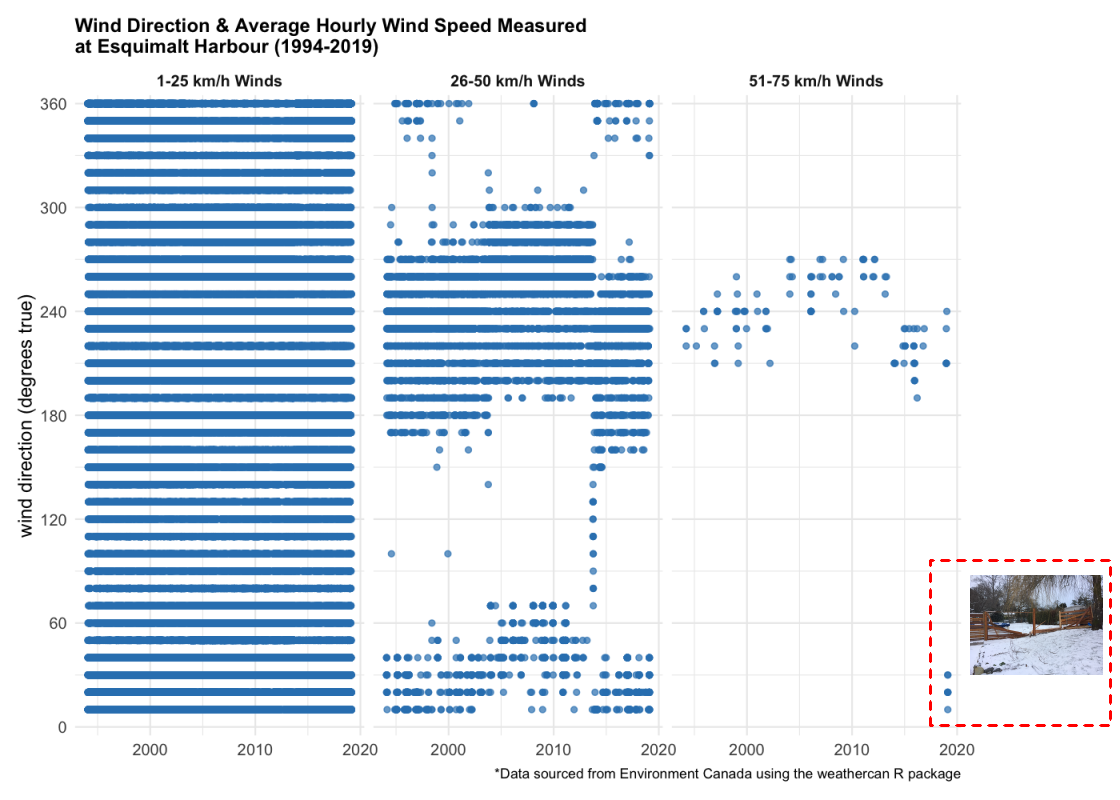
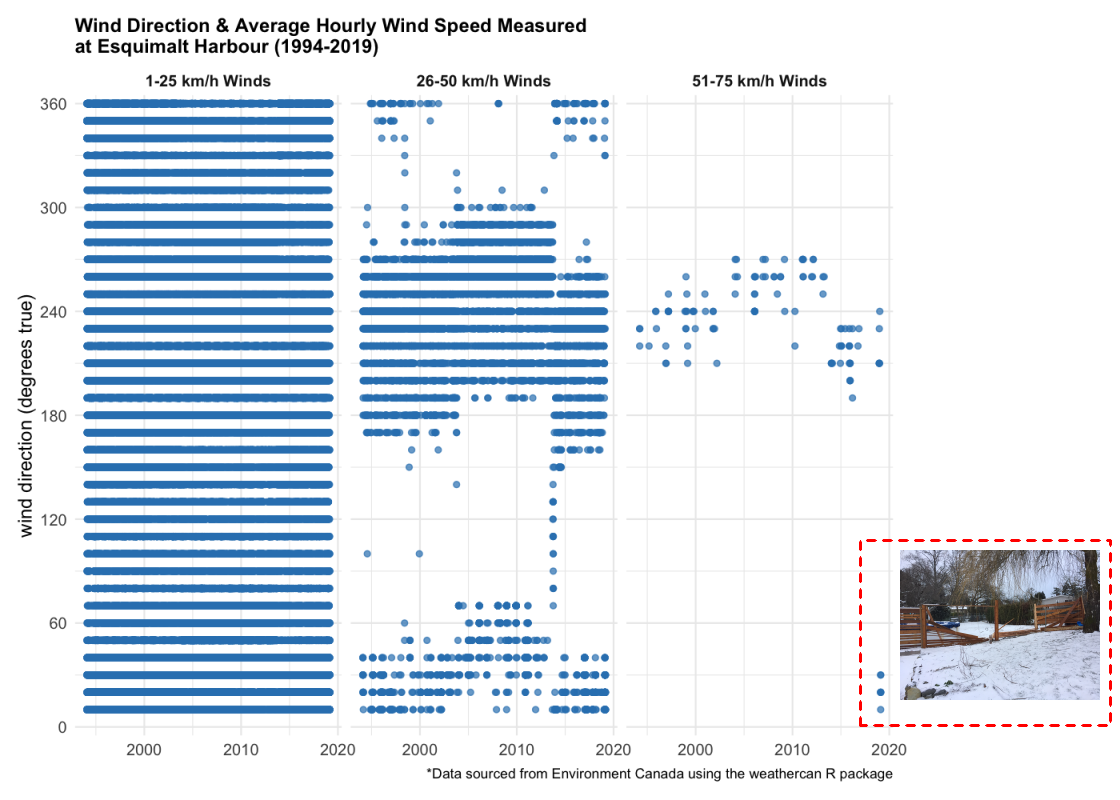
it was wind direction

diff --git a/R/fence/wind_direction.md b/R/fence/wind_direction.md
@@ -5,7 +5,48 @@ This file is licensed with the Creative Commons Attribution 4.0 International Li
 
 ## When You Miss the Target 🎯
 
+  - *Sometimes* you can do a data analysis and not find anything that
+    really sparks joy—no correlations, no explanatory patterns 📊
+
+  - *Sometimes* you can do a data analysis and be looking at the wrong
+    data 🔍
+
+  - *Sometimes* nice people make suggestions where you might want to
+    look 👀
+
+In my [short
+post](https://github.com/stephhazlitt/some-assembly-required/blob/master/R/fence/fence.md)
+looking at whether average wind speeds (km/h) during the Victoria,
+British Columbia February 2019 storm might have explained why my fence
+fell down, I didn’t find a “smoking gun” 🔫—the February storm perhaps
+lasted longer than ‘usual’ but measured wind speeds were within the
+normal range of storm wind speeds since 1994.
+
+A number of people suggested I look at wind direction 💨. So I did. KAPOW
+🎉😮
+
+1)  Get and wrangle the [Environment and Climate Change Canada
+    (ECCC)](http://climate.weather.gc.ca/historical_data/search_historic_data_e.html)
+    [wind direction
+    data](http://climate.weather.gc.ca/glossary_e.html#windSpd) using
+    the the [rOpenSci](https://ropensci.org/) [`weathercan` R
+    package](http://ropensci.github.io/weathercan/) 📦. I filtered out
+    wind speeds of zero and grouped wind speed into a three categories
+    (1-25 km/h, 26-50 km/h and 51-75 km/h):
+
+<!-- end list -->
+
 ``` r
+library(weathercan)
+library(dplyr)
+library(ggplot2)
+
+stn <- stations_search(name = "Esquimalt", interval = "hour") %>% 
+  select(station_id) %>% 
+  pull()
+
+data <- weather_dl(station_id = stn)
+
 wind_dir <- data %>% 
   select(station_id, station_name, date, wind_spd, wind_dir) %>% 
   filter(wind_spd != 0) %>% 
@@ -16,20 +57,24 @@ wind_dir <- data %>%
 wind_dir
 ```
 
-    ## # A tibble: 210,898 x 6
+    ## # A tibble: 211,018 x 6
     ##    station_id station_name      date       wind_spd wind_dir wind_spd_cat  
-    ##         <dbl> <chr>             <date>        <dbl>    <dbl> <fct>         
-    ##  1         52 ESQUIMALT HARBOUR 1994-02-01       11       36 1-25 km/h Win…
-    ##  2         52 ESQUIMALT HARBOUR 1994-02-01       11       35 1-25 km/h Win…
-    ##  3         52 ESQUIMALT HARBOUR 1994-02-01       15       35 1-25 km/h Win…
-    ##  4         52 ESQUIMALT HARBOUR 1994-02-01        9       36 1-25 km/h Win…
-    ##  5         52 ESQUIMALT HARBOUR 1994-02-01        7       36 1-25 km/h Win…
-    ##  6         52 ESQUIMALT HARBOUR 1994-02-01        9       36 1-25 km/h Win…
-    ##  7         52 ESQUIMALT HARBOUR 1994-02-01       11       36 1-25 km/h Win…
-    ##  8         52 ESQUIMALT HARBOUR 1994-02-01        7       36 1-25 km/h Win…
-    ##  9         52 ESQUIMALT HARBOUR 1994-02-01        9       35 1-25 km/h Win…
-    ## 10         52 ESQUIMALT HARBOUR 1994-02-01        9       36 1-25 km/h Win…
-    ## # … with 210,888 more rows
+    ##    <chr>      <chr>             <date>        <dbl>    <dbl> <fct>         
+    ##  1 52         ESQUIMALT HARBOUR 1994-02-01       11       36 1-25 km/h Win…
+    ##  2 52         ESQUIMALT HARBOUR 1994-02-01       11       35 1-25 km/h Win…
+    ##  3 52         ESQUIMALT HARBOUR 1994-02-01       15       35 1-25 km/h Win…
+    ##  4 52         ESQUIMALT HARBOUR 1994-02-01        9       36 1-25 km/h Win…
+    ##  5 52         ESQUIMALT HARBOUR 1994-02-01        7       36 1-25 km/h Win…
+    ##  6 52         ESQUIMALT HARBOUR 1994-02-01        9       36 1-25 km/h Win…
+    ##  7 52         ESQUIMALT HARBOUR 1994-02-01       11       36 1-25 km/h Win…
+    ##  8 52         ESQUIMALT HARBOUR 1994-02-01        7       36 1-25 km/h Win…
+    ##  9 52         ESQUIMALT HARBOUR 1994-02-01        9       35 1-25 km/h Win…
+    ## 10 52         ESQUIMALT HARBOUR 1994-02-01        9       36 1-25 km/h Win…
+    ## # … with 211,008 more rows
+
+2)  Plot wind direction over time for each wind speed category:
+
+<!-- end list -->
 
 ``` r
 wind_plot <- wind_dir %>% 
@@ -49,21 +94,28 @@ wind_plot <- wind_dir %>%
         axis.title = element_text(size = 12),
         strip.text = element_text(size = 10, face = "bold"),
         plot.title = element_text(size = 12, face = "bold"),
-        plot.margin = unit(c(4,35,4,4),"mm"))
+        plot.margin = unit(c(4,50,4,4),"mm"))
 wind_plot
 ```
 
 ![](wind_direction_files/figure-gfm/wind_plot-1.png)<!-- -->
 
+3)  Get fancy with the `magick` R package 📦 and overlay my sad fence
+    picture:
+
+<!-- end list -->
+
 ``` r
+library(magick)
+
 wind_plot_img <- image_read("tmp/wind_dir_plot.png")
 fence_img <- image_read("images/fence.jpg")
 
 final_img <- image_composite(image_scale(wind_plot_img, "x800"),
-                             image_scale(fence_img, "x100"),
-                             offset = "+970+575")
+                             image_scale(fence_img, "x150"),
+                             offset = "+900+550")
 final_img <- image_draw(final_img)
-rect(930, 560, 1110, 725, border = "red", lty = "dashed", lwd = 3)
+rect(860, 540, 1110, 725, border = "red", lty = "dashed", lwd = 3)
 final_img
 ```
 
